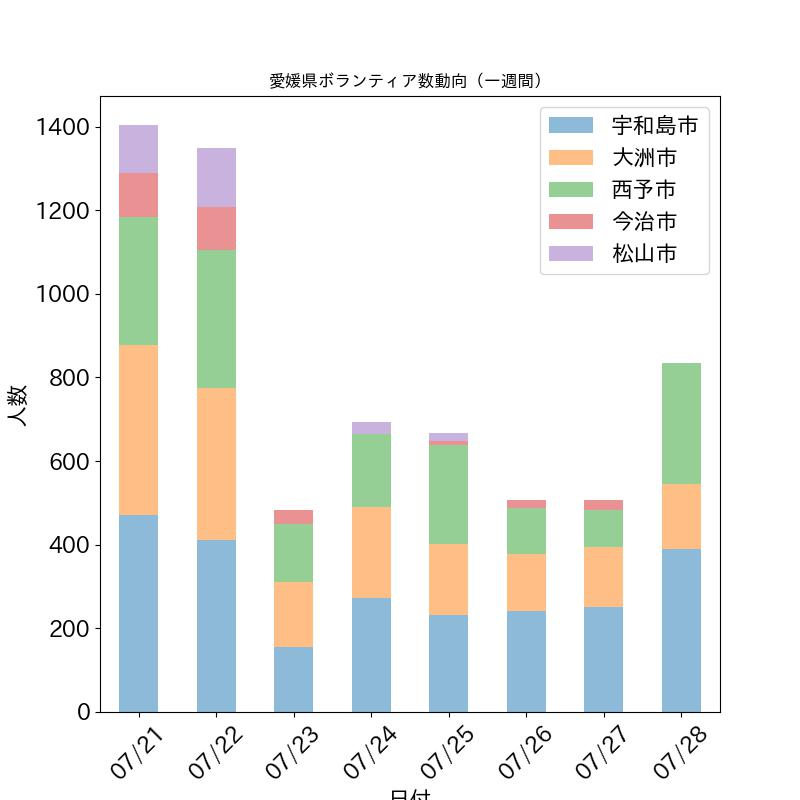
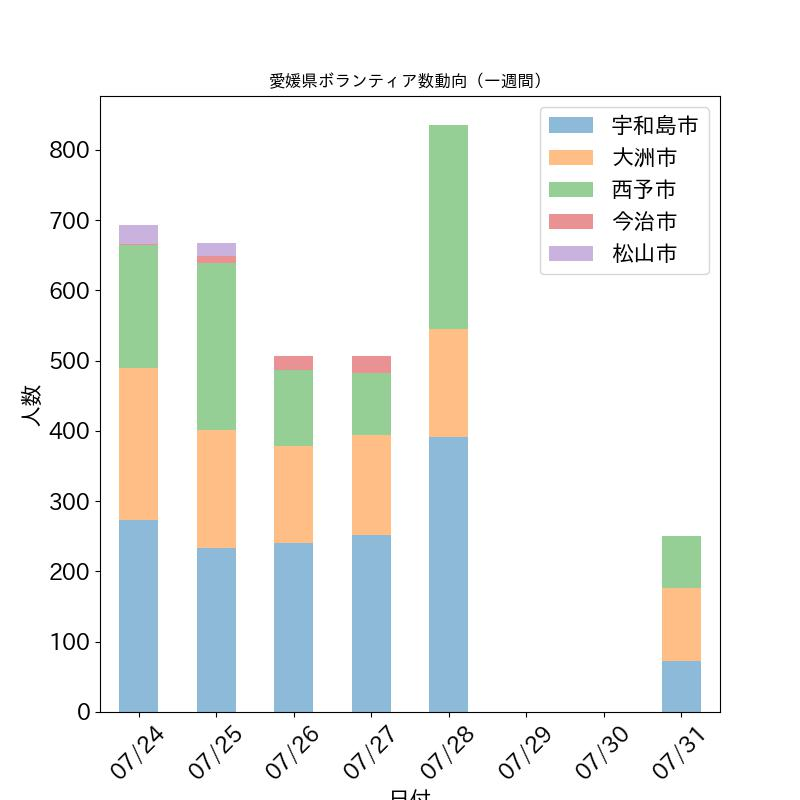
7/31のボラ数動向UP

diff --git a/_pages/volunteer_aggregation.md b/_pages/volunteer_aggregation.md
@@ -1,36 +1,63 @@
 ---
-title: 【07/28版 愛媛県ボランティア数動向】
-description: 松山市社協、八幡浜市社協、愛媛災害支援センターが公開しているデータを元に、ボランティア数のグラフを作成・公開しています。
+title: 【07/31版 愛媛県ボランティア数動向】
+excerpt: 災害VC,社協が公開しているデータを元に、ボランティア数の日次・週次グラフ、傾向分析、募集数と実績数比較を公開しています。
 permalink: /volunteer/aggregation/
 date: 2018-07-18 05:59:06 +0900
-last_modified_at: 2018-07-28 21:07:36 +0900
+last_modified_at: 2018-08-01 06:03:31 +0900
+header:
+  overlay_image: /assets/images/volunteer_count.png
+  overlay_filter: 0.5
 sidebar:
   nav: volunteer_menu
 
 ---
 
-## 【07/28から過去一週間分データ更新】
-
-本日より災害VCが開所してる今治、宇和島、大洲、西予と、まだニーズが残っている（と思われる）松山のみの表示とします。
+## 【07/31から過去一週間分データ更新】
 
 各社協、ボランティアセンターが公開している情報を元に、愛媛県内のボランティア数の一覧とグラフを公開しています。データ数が増えてきたので過去８日以内の表示にしています。全データは[こちら](https://docs.google.com/spreadsheets/d/1h-GFHoNa55P96wu_HNbPk899eN4HZcnu1T9q4eag8Uc/edit#gid=0)にあります。 [^1]
 
-## 傾向
+## 【ボランティア募集数と実績数比較】
+
+これまでの宇和島市、大洲市、西予市のボランティアの募集数と実績数をグラフにしてみました。
+
+### 宇和島市
+
+平日の募集は200人、休日の募集が400人となっていますが、ここ一週間は募集人数にほぼ近い実績値になっています。
+
+ ![宇和島ボラ数（募集と実績）](/assets/images/宇和島市_volunteer_expected_and_actual.png)
+
+### 大洲市
+
+平日の募集は120〜150人であり、平日・休日ともに概ね募集人数に近い実績数となっています。
+
+ ![大洲市ボラ数（募集と実績）](/assets/images/大洲市_volunteer_expected_and_actual.png)
+
+### 西予市
+
+募集は平日・休日問わず300人となっていますが、平日・休日含め**募集人数が集まっていない**ようです。
+
+ ![大洲市ボラ数（募集と実績）](/assets/images/大洲市_volunteer_expected_and_actual.png)
+
+### まとめ
+
+実際には、災害VC以外でボランティア活動をしているグループもあり、募集人数が集まっているからと行って**充分な復旧作業が行われているということではありません**。災害VC以外でも人手を募っている人たちはたくさんいます。今後はそういった方々もご紹介していければと考えています。
+
+## 【7/31の傾向】
+
+7/29-30が台風接近のためどの災害VCもお休みでした。
+7/31は活動が再開されましたが人数的には平日ということもあり低めとなっています。
+
 
 エリア | 前日比 | 前週同日比
 ---------|----------|---------
- 宇和島市 | :arrow_upper_right:139 | :arrow_lower_right:-79
- 大洲市  | :arrow_upper_right:12 | :arrow_lower_right:-254
- 西予市  | :arrow_upper_right:201 | :arrow_lower_right:-15
-
-- 宇和島、大洲、西予ともに、ほぼ目標数のボランティアの皆さんが集まったようです。
-- 明日(7/29)は台風のためすべてのVCはお休みです。
-- 月曜日(7/30)も西予市は前日18:00までに実施かどうかを決定、他のVCはお休みとなります。
-- 東からのルートの台風は被災地の二次災害だけでなくその他の地域でも警戒が必要です。
+ 宇和島市 | :arrow_lower_right:-319 | :arrow_lower_right:-201
+ 大洲市  | :arrow_lower_right:-50 | :arrow_lower_right:-113
+ 西予市  | :arrow_lower_right:-215 | :arrow_lower_right:-99
 
 
-**熱射病対応チャートは要チェックです！！**
+暑い日が続きますが、ボランティア時に気をつける[熱中症対策のイラストリーフレット](https://cheerup-ehime.github.io/volunteer/heatstroke-illustrated/)を作成しましたので、是非ご活用ください。（https://cheerup-ehime.github.io/volunteer/heatstroke-illustrated/）
 
+## 【日次ボランティア数動向】
 
 ![愛媛県内ボランティア数（日次）](/assets/images/volunteer_count.png)
 
@@ -38,24 +65,25 @@ sidebar:
 
 | 日付   |   宇和島市 |   大洲市 |   西予市 |   今治市 |   松山市 |
 |:-------|-----------:|---------:|---------:|---------:|---------:|
-| 07/21  |        470 |      408 |      305 |      105 |      115 |
-| 07/22  |        411 |      365 |      330 |      101 |      141 |
-| 07/23  |        156 |      156 |      138 |       32 |        0 |
 | 07/24  |        273 |      217 |      174 |        2 |       27 |
 | 07/25  |        233 |      169 |      237 |       10 |       19 |
 | 07/26  |        241 |      138 |      108 |       20 |        0 |
 | 07/27  |        252 |      142 |       89 |       23 |        0 |
 | 07/28  |        391 |      154 |      290 |        0 |        0 |
+| 07/29  |          0 |        0 |        0 |        0 |        0 |
+| 07/30  |          0 |        0 |        0 |        0 |        0 |
+| 07/31  |         72 |      104 |       75 |        0 |        0 |
 
-## 【週毎のボランティア数動向】
+## 【週次ボランティア数動向】
 
 ![愛媛県内ボランティア数（週次）](/assets/images/volunteer_count_week.png)
 
 | 日付                |   宇和島市 |   大洲市 |   西予市 |   今治市 |   松山市 |
 |:--------------------|-----------:|---------:|---------:|---------:|---------:|
-| 2018-07-15 00:00:00 |       1172 |     2562 |     2552 |      419 |      781 |
-| 2018-07-22 00:00:00 |       1902 |     2040 |     2056 |      484 |      867 |
-| 2018-07-29 00:00:00 |       1546 |      976 |     1036 |       87 |       46 |
+| 07/15週 |       1172 |     2562 |     2552 |      419 |      781 |
+| 07/22週 |       1902 |     2040 |     2056 |      484 |      867 |
+| 07/29週 |       1546 |      976 |     1036 |       87 |       46 |
+| 08/05週 |         72 |      104 |       75 |        0 |        0 |
 
 ### 元データ
 
